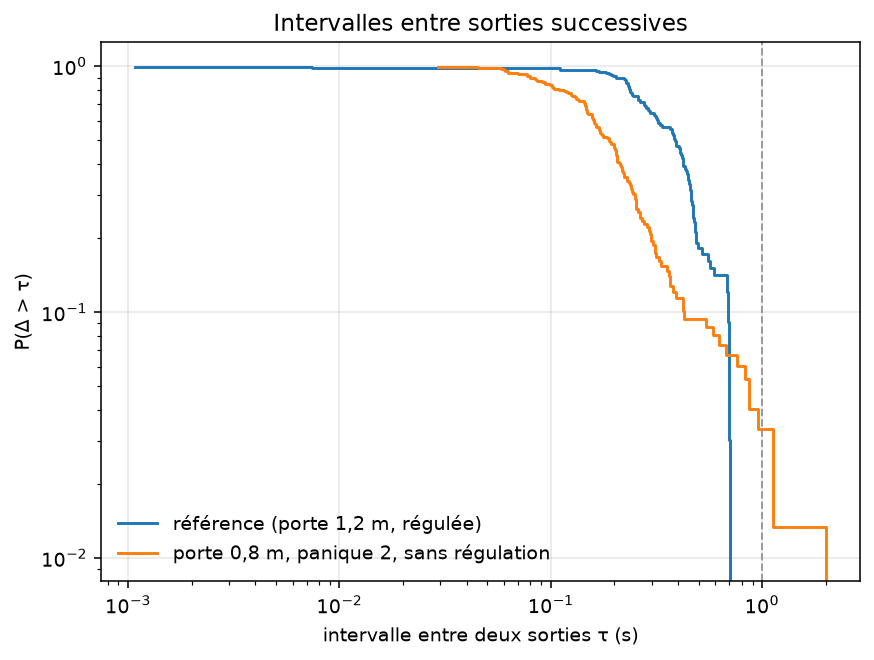
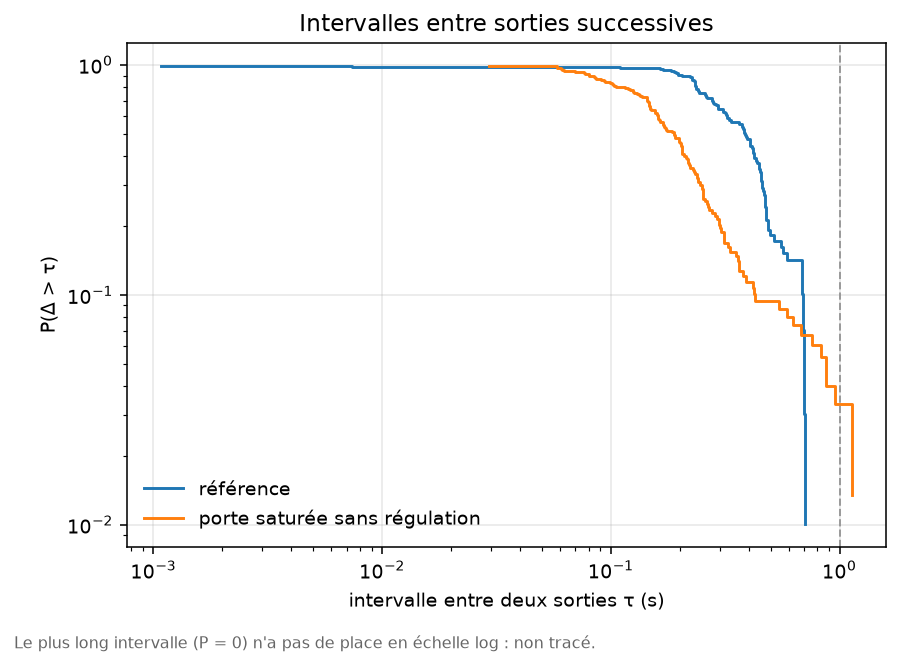
fix(outils): dire en français qu'une valeur de --fixer doit être un nombre, et écrire pourquoi le dernier intervalle manque à la figure des bouchons (#195)

diff --git a/src/viscocrowd/viz/bouchage.py b/src/viscocrowd/viz/bouchage.py
@@ -29,6 +29,18 @@ def sorties_archivees(chemin: Path) -> np.ndarray:
     return np.array([np.nan if s is None else s for s in evenements["sorties"]], dtype=float)
 
 
+def points_survie(intervalles: np.ndarray) -> tuple[np.ndarray, np.ndarray]:
+    """Points (tau, P(Delta > tau)) a tracer en echelle log : ceux ou P > 0.
+
+    Au plus long intervalle, P vaut 0 et n'a pas de place sur un axe logarithmique :
+    on s'arrete donc a l'avant-dernier intervalle distinct, et la legende le dit.
+    """
+    taus = np.sort(np.asarray(intervalles, dtype=float))
+    p = survie(taus, taus)
+    garder = p > 0
+    return taus[garder], p[garder]
+
+
 def ajouter_commande(sous) -> None:
     commande = sous.add_parser(
         "bouchons", help="distribution des intervalles entre sorties (duree des bouchons)"
@@ -72,8 +84,8 @@ def commande_bouchons(args) -> int:
                     f"plus long {intervalles.max():.2f} s ; "
                     f"{incompletes} évacuation(s) incomplète(s) sur {len(liste)}"
                 )
-                taus = np.sort(intervalles)
-                ax.step(taus, survie(intervalles, taus), where="post", label=etiquette)
+                taus, p = points_survie(intervalles)
+                ax.step(taus, p, where="post", label=etiquette)
             else:
                 print(
                     f"{etiquette} : aucun intervalle ; "
@@ -85,6 +97,14 @@ def commande_bouchons(args) -> int:
         ax.set_xlabel("intervalle entre deux sorties τ (s)")
         ax.set_ylabel("P(Δ > τ)")
         ax.set_title("Intervalles entre sorties successives")
+        figure.subplots_adjust(bottom=0.16)  # place pour la note sous l'axe
+        figure.text(
+            0.01,
+            0.015,
+            "Le plus long intervalle (P = 0) n'a pas de place en échelle log : non tracé.",
+            fontsize=8,
+            color="0.4",
+        )
         if ax.get_legend_handles_labels()[0]:
             ax.legend()
         args.image.parent.mkdir(parents=True, exist_ok=True)

diff --git a/tests/test_bouchage.py b/tests/test_bouchage.py
@@ -62,3 +62,12 @@ def test_commande_bouchons_refuse_des_etiquettes_mal_comptees(tmp_path, capsys):
     image = tmp_path / "b.png"
     assert main(["bouchons", "a.npz", "b.npz", "--etiquettes", "x", "--image", str(image)]) == 1
     assert "etiquette" in capsys.readouterr().err
+
+
+def test_points_survie_sans_le_zero_final():
+    """#195 : le plus long intervalle (P = 0) n'a pas de place en echelle log."""
+    from viscocrowd.viz.bouchage import points_survie
+
+    taus, p = points_survie(np.array([0.5, 2.0, 1.0]))
+    np.testing.assert_array_equal(taus, [0.5, 1.0])
+    np.testing.assert_allclose(p, [2 / 3, 1 / 3])

diff --git a/src/viscocrowd/scenarios/balayage_piscine.py b/src/viscocrowd/scenarios/balayage_piscine.py
@@ -516,7 +516,10 @@ def lire_fixes(textes: list[str]) -> dict[str, float | int]:
             raise ValueError(f"--fixer attend NOM=VALEUR avec NOM parmi {', '.join(PARAMETRES)}")
         if nom in fixes:
             raise ValueError(f"{nom} est fixe deux fois")
-        nombre = float(valeur)
+        try:
+            nombre = float(valeur)
+        except ValueError:
+            raise ValueError(f"--fixer {texte} : {nom} doit etre un nombre") from None
         if nom in ENTIERS:
             if not nombre.is_integer():
                 raise ValueError(f"{nom} : entier attendu, recu {valeur}")

diff --git a/tests/test_balayage_piscine.py b/tests/test_balayage_piscine.py
@@ -552,3 +552,9 @@ def test_appliquer_fixes_laisse_l_original_intact():
     sols = ("EAU", "MOUILLE", "SEC")
     assert {nouveau["parametres_milieux"][m]["relaxation"] for m in sols} == {0.4}
     assert {config["parametres_milieux"][m]["relaxation"] for m in sols} == {0.5}
+
+
+def test_lire_fixes_valeur_non_numerique_message_en_francais():
+    """#195 : plus de message anglais de float() (« could not convert string to float »)."""
+    with pytest.raises(ValueError, match="doit etre un nombre"):
+        balayage.lire_fixes(["n_agents=abc"])
